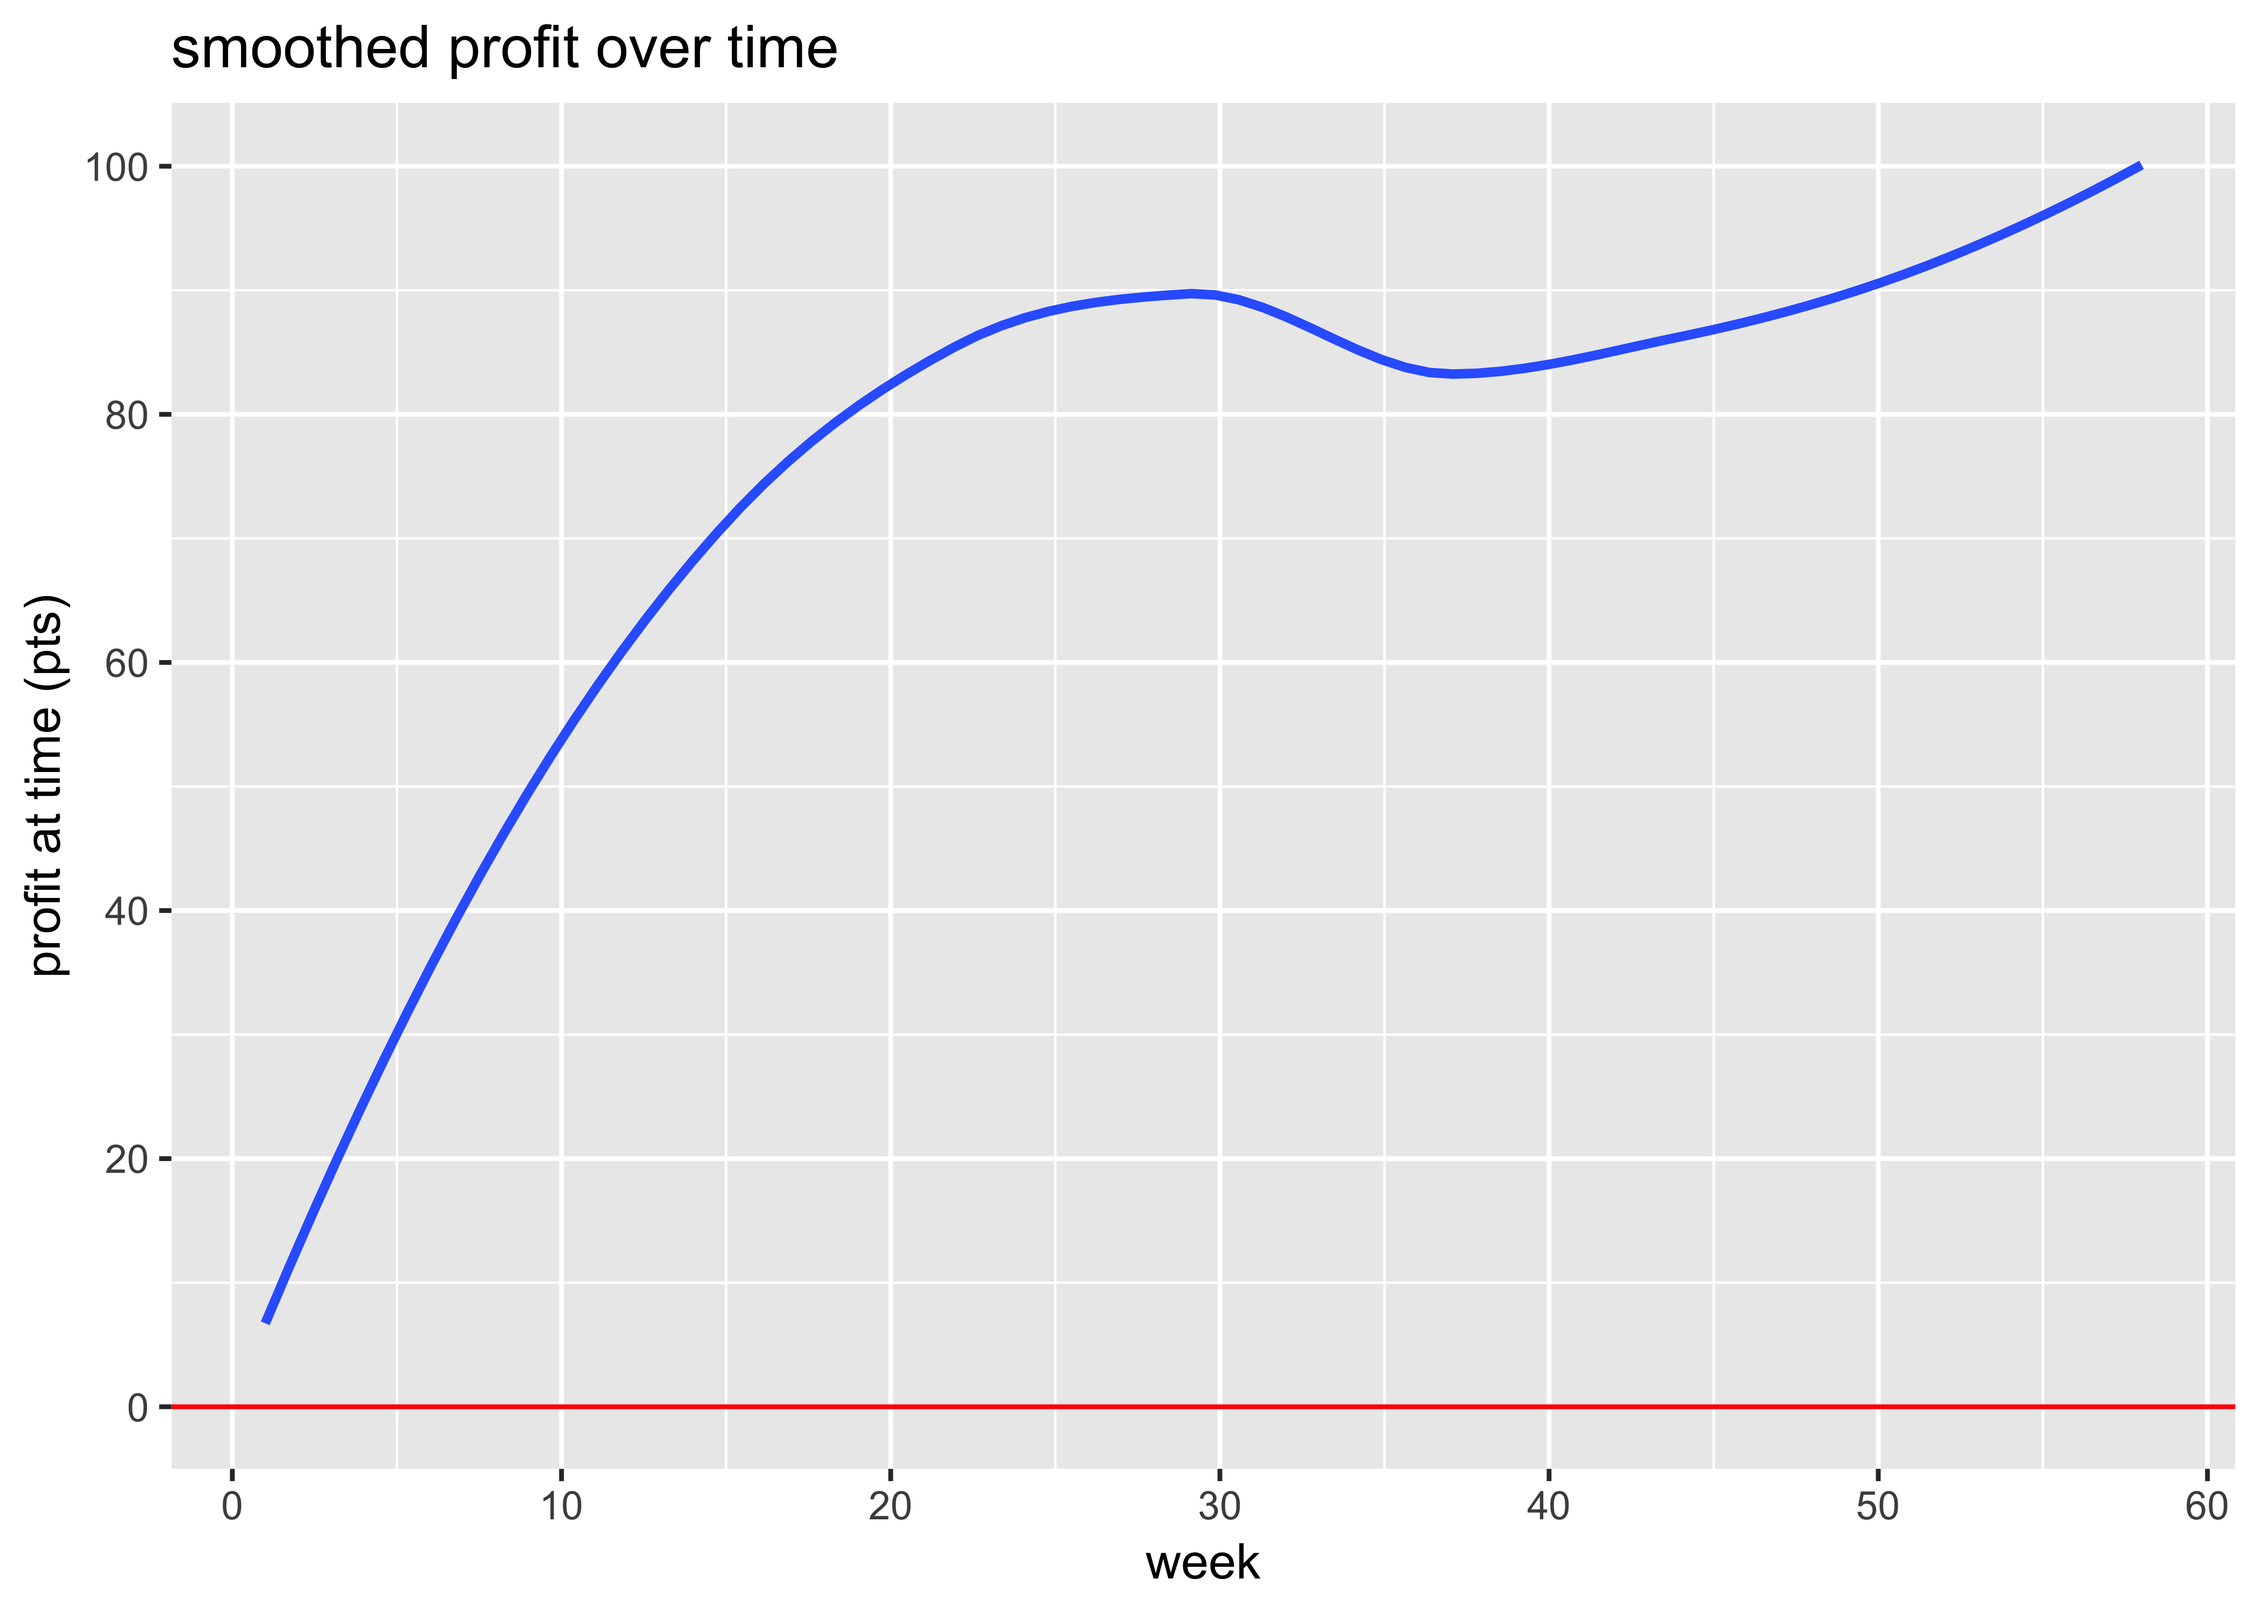
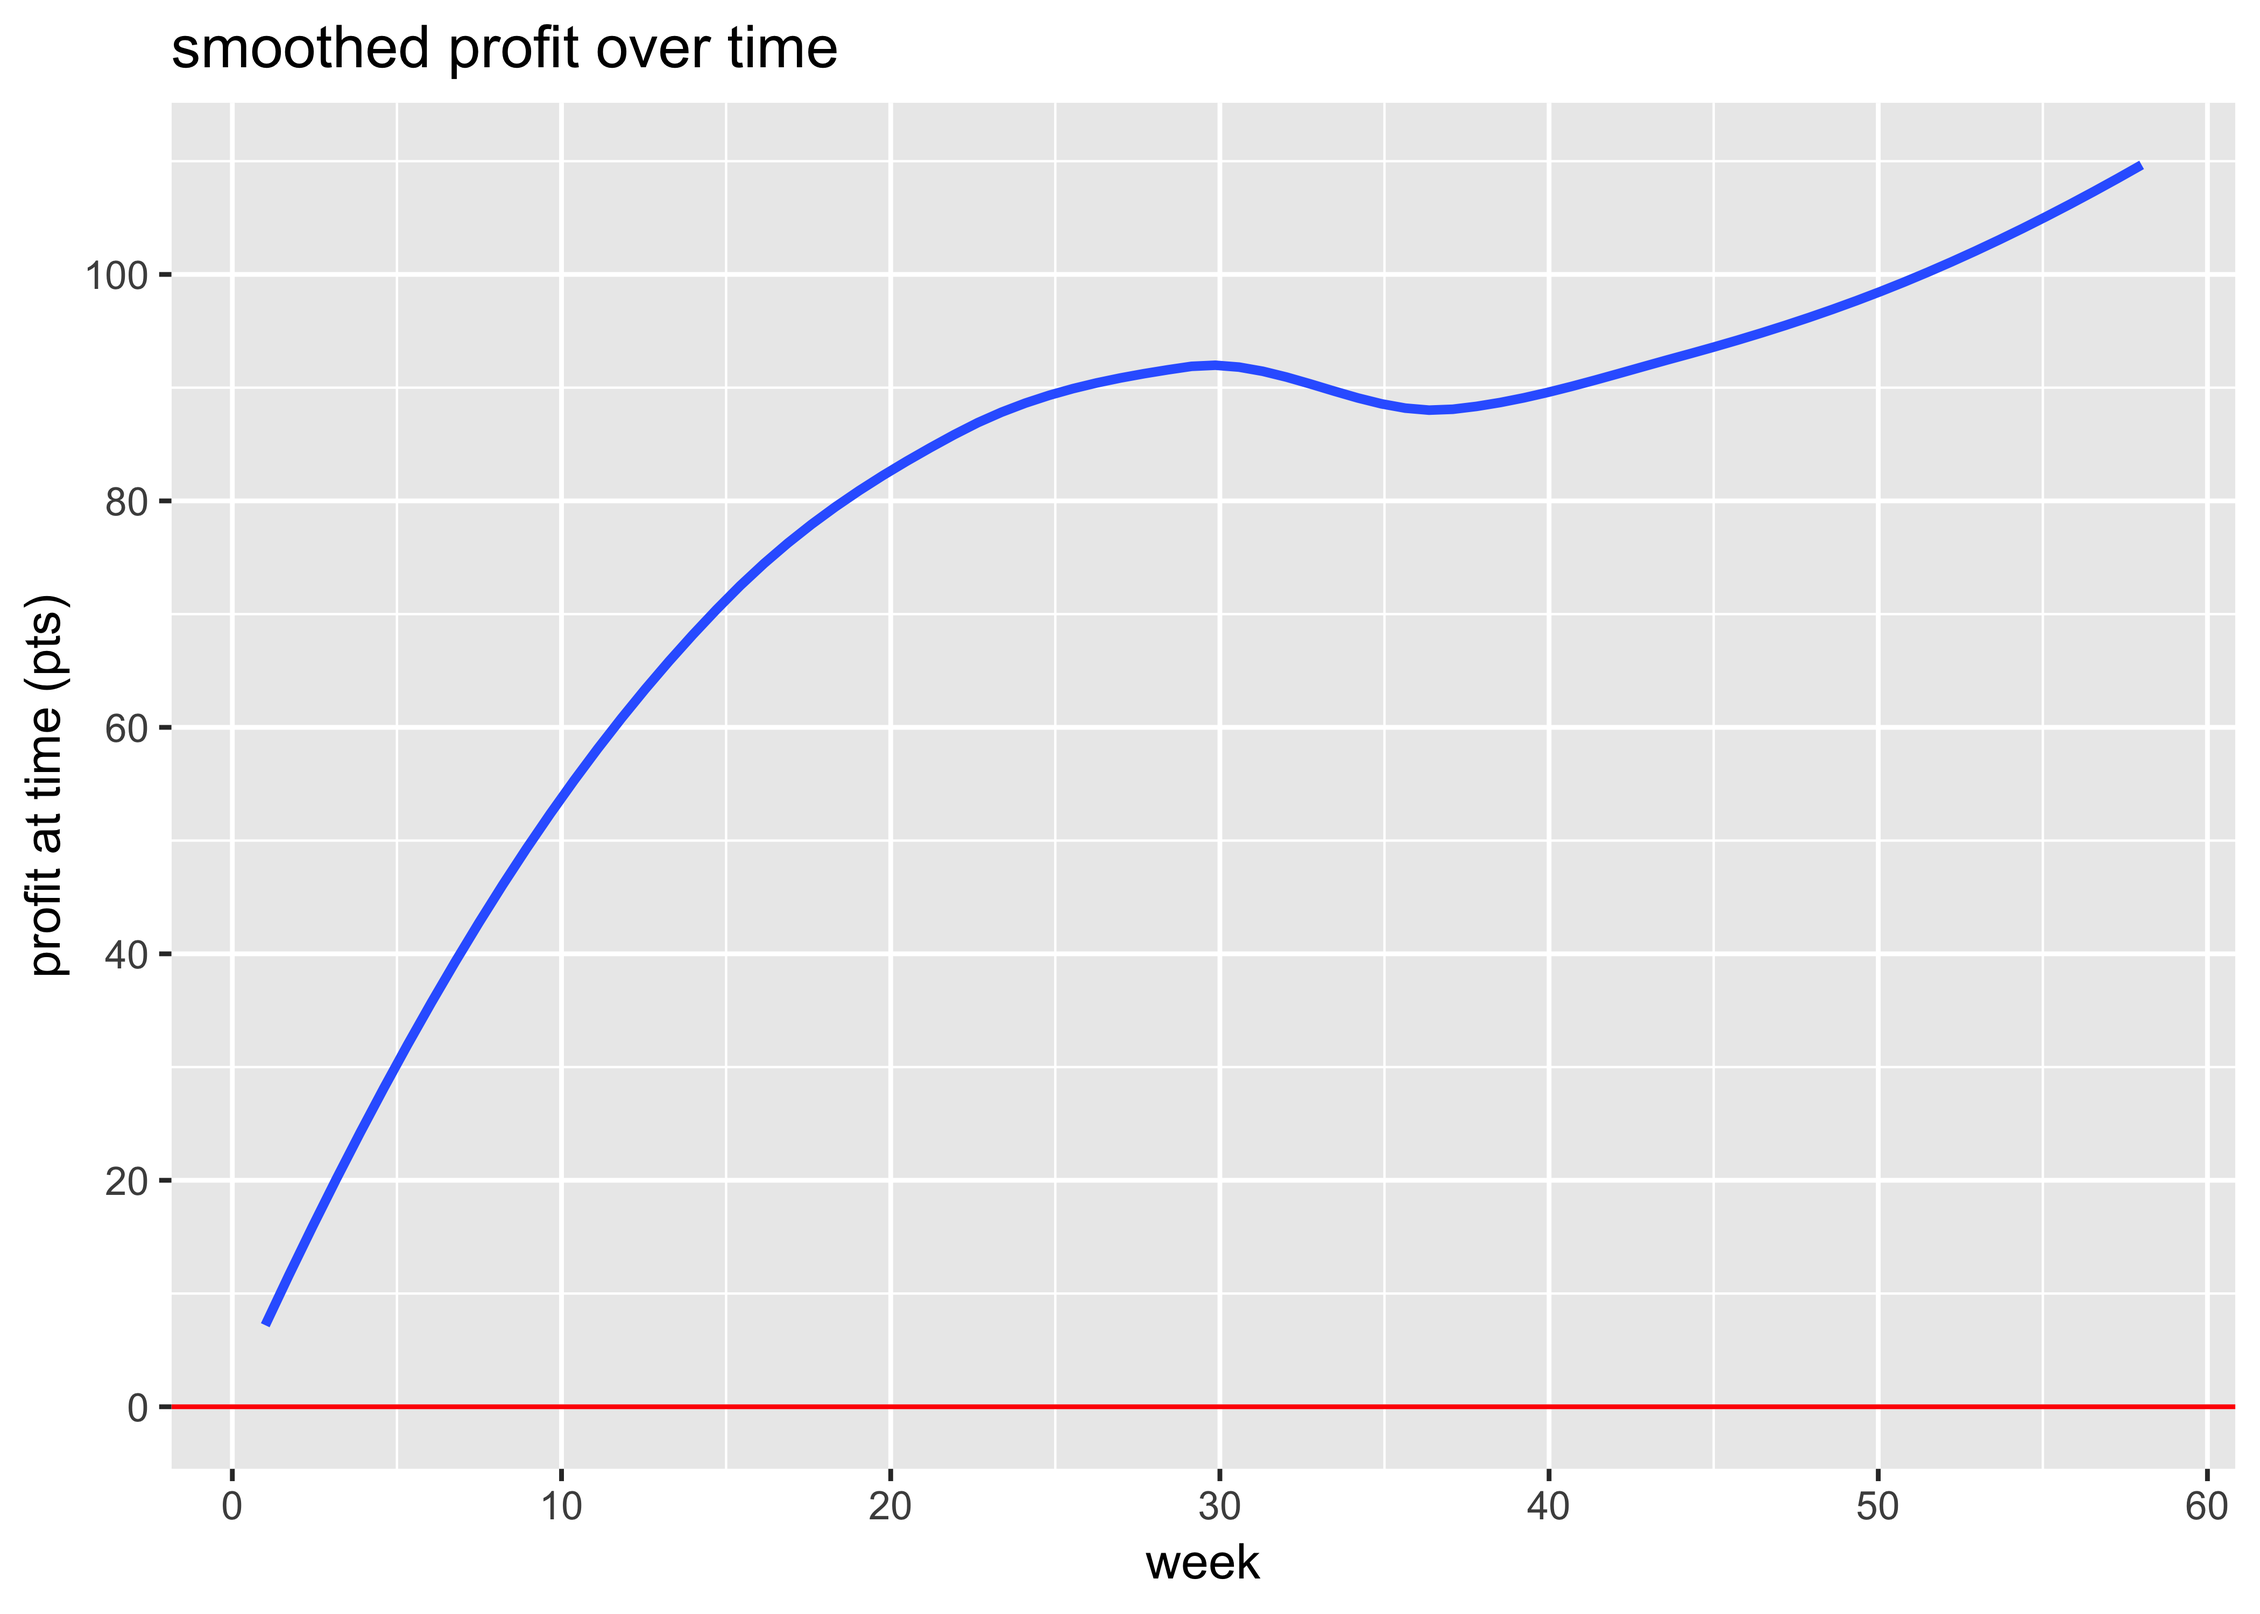
Tracking only Cat 20 for now.

diff --git a/report.md b/report.md
@@ -1,6 +1,6 @@
 report
 ================
-2019-06-02
+2019-06-04
 
 # Profit over time
 
@@ -10,29 +10,31 @@ report
 
 # ROI and ROC
 
-We put in €9000 and we’ve made a profit of €3,814 on the bets. However,
-we’ve paid three subscriptions of £600 which amounts to €2,036 so our
-net profit is €1,778. That’s a return on capital of 19.76%. This gives
-us a current bank of €10778.
+We put in €9000 and we’ve made a profit of €5,932 on the bets. However,
+we’ve paid three subscriptions of £600 which amounts to €2,032 so our
+net profit is €3,900. That’s a return on capital of 43.33%. This gives
+us a current bank of €12900.
 
-We have wagered a total of €95,515 and made a betting profit of €3,814,
-which gives us a betting ROI of 3.99%.
+We have wagered a total of €96,391 and made a betting profit of €5,932,
+which gives us a betting ROI of 6.15%.
 
 # Have any bookies been riddled?
 
 | bookmaker    | Aidan | Rory | total |
 | :----------- | :---- | :--- | :---- |
 | Betfred      | \+20  | \+34 | \+54  |
-| Paddy Power  | \+46  | \+1  | \+47  |
+| Paddy Power  | \+43  | \+1  | \+44  |
 | Bet365       | 0     | \+36 | \+36  |
 | Unibet       | \+15  | \+20 | \+35  |
-| Matchbook    | \+19  | \+3  | \+22  |
-| SkyBet       | \+17  | \-1  | \+17  |
+| Matchbook    | \+31  | \+4  | \+35  |
+| SkyBet       | \+16  | \-1  | \+16  |
 | SportingBet  | 0     | \+10 | \+10  |
 | 10Bet        | \+15  | \-6  | \+9   |
 | NA           | 0     | \+7  | \+7   |
+| SpreadEx     | \+6   | 0    | \+6   |
 | Coral        | \+5   | 0    | \+5   |
 | Marathon     | 0     | \+2  | \+2   |
+| William Hill | \+2   | \-1  | \+1   |
 | SportNation  | 0     | 0    | 0     |
 | Betway       | 0     | 0    | 0     |
 | HC Matchbook | 0     | \-1  | \-1   |
@@ -42,24 +44,22 @@ which gives us a betting ROI of 3.99%.
 | BetBright    | 0     | \-1  | \-1   |
 | RedZone      | 0     | \-2  | \-2   |
 | BetVictor    | 0     | \-3  | \-3   |
-| LC Matchbook | 0     | \-3  | \-4   |
+| LC Matchbook | 0     | \-3  | \-3   |
 | Various      | \-3   | \-1  | \-4   |
 | BoyleSports  | \-5   | 0    | \-5   |
 | 888Sport     | 0     | \-5  | \-5   |
-| SportsPesa   | 0     | \-6  | \-6   |
 | Boylesports  | \-6   | 0    | \-6   |
+| SportsPesa   | 0     | \-6  | \-6   |
 | 188Bet       | \-3   | \-4  | \-6   |
-| SpreadEx     | \-8   | 0    | \-8   |
 | BetStars     | \-2   | \-9  | \-10  |
-| William Hill | \-10  | \-1  | \-11  |
 | Ladbrokes    | 0     | \-18 | \-18  |
 | Black Type   | 0     | \-25 | \-25  |
-| Betfair SB   | \-24  | \-8  | \-32  |
+| Betfair SB   | \-24  | \-8  | \-33  |
 
 # Minimum acceptable odds
 
-We’ve had winnings of 1373 points and losses of 1280 points, so even if
-our odds were only a fraction 1280 / 1373 = 0.93 of what we actually
+We’ve had winnings of 1411 points and losses of 1282 points, so even if
+our odds were only a fraction 1282 / 1411 = 0.91 of what we actually
 got, we’d still be breaking even.
 
 # Winners and losers
@@ -68,34 +68,35 @@ Here’s a count of the number of winners, losers, and places we’ve had.
 
 | result                  |   n | percent |
 | :---------------------- | --: | :------ |
-| Win only Lose           | 901 | 69%     |
-| Win only Win            | 181 | 14%     |
+| Win only Lose           | 908 | 69%     |
+| Win only Win            | 186 | 14%     |
 | Each way Lose           | 108 | 8%      |
 | Win only Unmatched Loss |  44 | 3%      |
 | Each way Place          |  37 | 3%      |
 | Each way Win            |  19 | 1%      |
-| Win only Unmatched Win  |  12 | 1%      |
+| Win only Unmatched Win  |  13 | 1%      |
 | Each way Unmatched Loss |   1 | 0%      |
 | Win only Place          |   1 | 0%      |
 
 # Win only vs each way
 
-  - We’ve made 682 *win only* bets, on which we’ve made a profit of
-    €3,652.
+  - We’ve made 689 *win only* bets, on which we’ve made a profit of
+    €5,529.
   - We’ve made 103 *each way* bets, on which we’ve made a profit of
-    €163.
+    €403.
 
 # Unmatched Bets
 
 We’ll consider only win only bets (and not each way bets) in this
 section.
 
-Of the bets that have been matched, there have been 125 winners and 546
+Of the bets that have been matched, there have been 128 winners and 550
 losers. That means that 19% of matched bets have been winners. Of the
-bets that have not been matched, there have been 12 winners and 44
-losers. That means that 21% of unmatched bets have been winners.
-Unmatched bets have saved us 43 points on losers but cost us 77 on
+bets that have not been matched, there have been 13 winners and 44
+losers. That means that 23% of unmatched bets have been winners.
+Unmatched bets have saved us 43 points on losers but cost us 81 on
 winners, whereas getting better odds on posted bets which were matched
-has made us 44 points (where I have assumed that when we post, we get
+has made us 48 points (where I have assumed that when we post, we get
 20% better odds than if we’d just taken best available at the time). So
-overall, unmatched bets have saved us 10 points.
+overall, choosing to post when we do (rather than taking the bad bbest
+available odds) has saved us 10 points.
